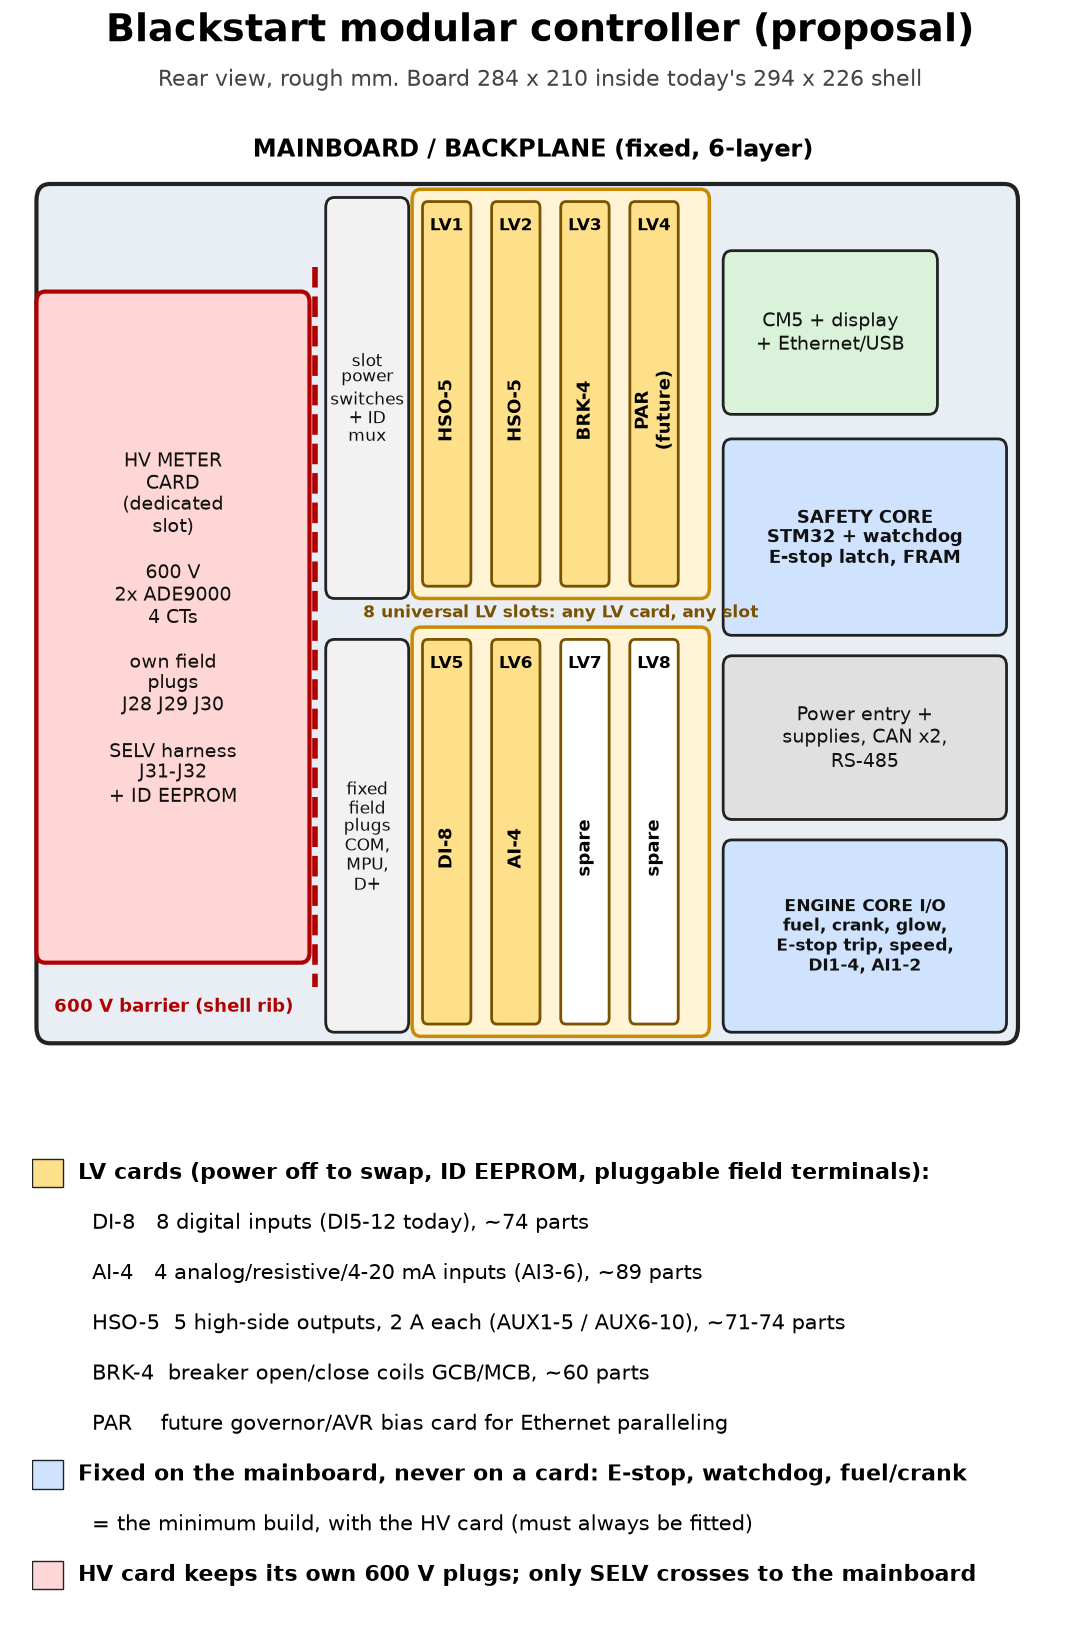
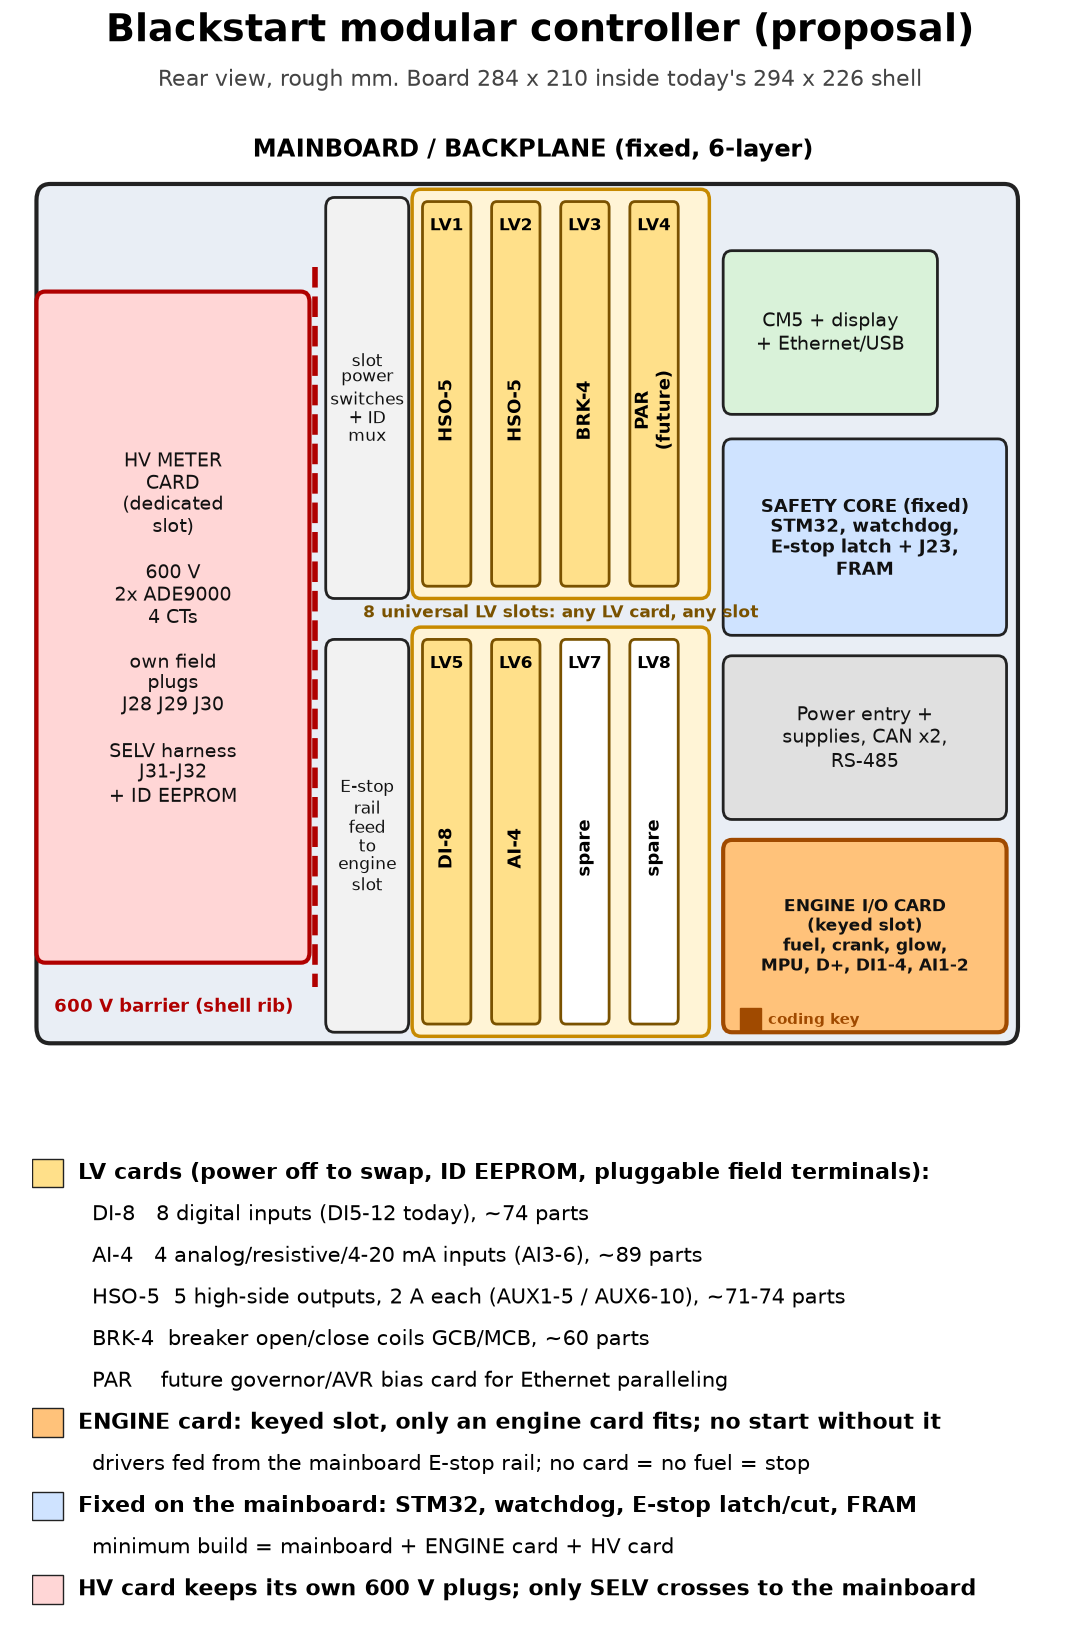
M-mod P2 chunk A: engine I/O card slot in MODULAR_ARCHITECTURE (§9: E-stop cut verified upstream/external, glow VS -> VBAT_ESTOP, parallel DIN contacts, AT24CS32/TPS48100 checks, I2C2 slot bus), card_layout.png keyed engine slot, cost delta +$326/+$120

diff --git a/docs/modular/tools/card_layout.py b/docs/modular/tools/card_layout.py
@@ -38,11 +38,12 @@ for i,(s,u) in enumerate(zip(slots_bot,use_bot)):
 ax.text(x0+2*pitch,89.5,'8 universal LV slots: any LV card, any slot',ha='center',va='center',fontsize=12.5,color='#7a5200',weight='bold')
 # fixed blocks
 box(ax,195,1,62,40,'#d9f2d9',txt='CM5 + display\n+ Ethernet/USB',fs=14)
-box(ax,195,47,82,48,'#cfe3ff',txt='SAFETY CORE\nSTM32 + watchdog\nE-stop latch, FRAM',fs=13,bold=True)
+box(ax,195,47,82,48,'#cfe3ff',txt='SAFETY CORE (fixed)\nSTM32, watchdog,\nE-stop latch + J23,\nFRAM',fs=13,bold=True)
 box(ax,195,100,82,40,'#e0e0e0',txt='Power entry +\nsupplies, CAN x2,\nRS-485',fs=14)
-box(ax,195,145,82,47,'#cfe3ff',txt='ENGINE CORE I/O\nfuel, crank, glow,\nE-stop trip, speed,\nDI1-4, AI1-2',fs=12.5,bold=True)
+box(ax,195,145,82,47,'#ffc27a',ec='#a04a00',lw=3,txt='ENGINE I/O CARD\n(keyed slot)\nfuel, crank, glow,\nMPU, D+, DI1-4, AI1-2',fs=12.5,bold=True)
+ax.add_patch(Rectangle((200,186),6,6,fc='#a04a00',ec='#a04a00')); ax.text(208,189,'coding key',fontsize=11,color='#a04a00',va='center',weight='bold')
 box(ax,80,-12,24,98,'#f2f2f2',txt='slot\npower\nswitches\n+ ID\nmux',fs=12)
-box(ax,80,96,24,96,'#f2f2f2',txt='fixed\nfield\nplugs\nCOM,\nMPU,\nD+',fs=12)
+box(ax,80,96,24,96,'#f2f2f2',txt='E-stop\nrail\nfeed\nto\nengine\nslot',fs=12)
 # bottom legend
 lx=fig.add_axes([0.03,0.015,0.94,0.29]); lx.axis('off'); lx.set_xlim(0,100); lx.set_ylim(0,100)
 L=[('#ffe08a','LV cards (power off to swap, ID EEPROM, pluggable field terminals):'),
@@ -51,14 +52,16 @@ L=[('#ffe08a','LV cards (power off to swap, ID EEPROM, pluggable field terminals
    (None,'  HSO-5  5 high-side outputs, 2 A each (AUX1-5 / AUX6-10), ~71-74 parts'),
    (None,'  BRK-4  breaker open/close coils GCB/MCB, ~60 parts'),
    (None,'  PAR    future governor/AVR bias card for Ethernet paralleling'),
-   ('#cfe3ff','Fixed on the mainboard, never on a card: E-stop, watchdog, fuel/crank'),
-   (None,'  = the minimum build, with the HV card (must always be fitted)'),
+   ('#ffc27a','ENGINE card: keyed slot, only an engine card fits; no start without it'),
+   (None,'  drivers fed from the mainboard E-stop rail; no card = no fuel = stop'),
+   ('#cfe3ff','Fixed on the mainboard: STM32, watchdog, E-stop latch/cut, FRAM'),
+   (None,'  minimum build = mainboard + ENGINE card + HV card'),
    ('#ffd6d6','HV card keeps its own 600 V plugs; only SELV crosses to the mainboard')]
 y=96
 for c,t in L:
     if c: lx.add_patch(Rectangle((0,y-4.5),3,6,fc=c,ec='#222'))
     lx.text(4.5 if c else 4.5,y-1.5,t,fontsize=15.5 if c else 15,va='center',weight='bold' if c else 'normal')
-    y-=10.5
+    y-=8.7
 out=os.path.join(MOD,'card_layout.png'); fig.savefig(out,dpi=100); print(out)
 
 # connector comparison sheet

diff --git a/docs/modular/tools/cost_delta.py b/docs/modular/tools/cost_delta.py
@@ -28,6 +28,14 @@ add('cards','TMUX1208PWR current-sense mux (C494728) on HSO-5 x2, BRK-4',3,0.571
 add('cards','TCA9555PWR on AI-4 (excitation/shunt enables) (C465732)',1,0.7314,0.517,'M-BOM')
 add('cards','DI-8 own bias switch block (copy of DI_BIAS, ~10 parts)',1,1.00,0.80,'E')
 add('cards','Card passives (~6 per card) + 1 extra field header KF2EDGRM-5.08-6P net',nc+1,0.41,0.34,'E')
+# Phase 2 (Nov 23 10:24 decision): dedicated keyed ENGINE I/O card slot (circuitry moved, not added)
+add('engine slot','DIN 41612 C96 female vertical on mainboard, engine slot (C5173363)',1,1.3035,1.0953,'M-LCSC')
+add('engine slot','DIN 41612 C96 male RA on the engine card (C5173361)',1,1.2659,1.061,'M-LCSC')
+add('engine slot','AT24CS32-STUM-T engine card ID EEPROM + 100n + 10k (C147891)',1,1.4297+0.02,1.1721+0.02,'M-LCSC')
+add('engine slot','2nd TCA9548APWR (0x71): 8 LV + engine + HV = 10 ID buses > 8 channels (C130026)',1,0.8659,0.732,'M-LCSC')
+add('engine slot','KF2EDGRM-5.08-6P extra field headers on the engine card (DI1-4/AI1-2, D+/GLOW/BIAS) (C441292)',2,0.3626,0.3626,'M-BOM')
+add('engine slot','Engine card PCB 4-layer ~100 x 80 mm (double-width) + PCBA fees + ~6 extended parts',1,8.0+13.74+18.42,1.6+1.374+1.842,'E (same basis as LV card lines)')
+add('engine slot','Engine bay guide with coding rib + faceplate + captive screw',1,4.00,2.50,'E')
 # boards and fees
 designs=4
 add('boards','LV card PCB, 4-layer ~100 x 36 mm, 5 pcs per design at qty 1 (per-unit share at qty 10)',designs,8.00,1.20,'E (SPLIT_SCOPE JLC 100x100 4L x5 ~ EUR 5.92)')
@@ -42,5 +50,5 @@ with open(os.path.join(H,'cost_delta.csv'),'w',newline='') as f:
         w.writerow([g,i,q,p1,p10,round(q*p1,2),round(q*p10,2),s]); t1+=q*p1; t10+=q*p10
     w.writerow(['TOTAL','delta vs one-board baseline (savings from removed shared mainboard parts NOT subtracted)','','','',round(t1,2),round(t10,2),'mix'])
 print(round(t1,2),round(t10,2))
-for g in ['backplane x8','backplane shared','cards','boards','mechanical']:
+for g in ['backplane x8','backplane shared','cards','engine slot','boards','mechanical']:
     print(g, round(sum(q*p1 for gg,i,q,p1,p10,s in rows if gg==g),2), round(sum(q*p10 for gg,i,q,p1,p10,s in rows if gg==g),2))

diff --git a/docs/MODULAR_ARCHITECTURE.md b/docs/MODULAR_ARCHITECTURE.md
@@ -1,7 +1,7 @@
-# Modular "card" architecture: Phase 1 proposal (docs only)
+# Modular "card" architecture: Phase 1 proposal + Phase 2 engine-card update
 
 Branch `m7-modular`, from the locked baseline tag `baseline-2026-11-23-locked` (5bac9fe). Written Mon Nov 23, 2026, ~10:15 AM HST.
-**No schematic, BOM, PCB or enclosure file has been changed.** This is a proposal for Ethan's review. Nothing has been ordered or pushed.
+**Phase 2 (§9, Nov 23 ~10:40 AM HST):** the engine I/O moves to its own keyed card slot; card schematics now live in `cards/`. The baseline schematics, BOM and PCB are still untouched. Nothing has been ordered or pushed.
 
 Ethan's asks (Nov 23, 10:00 and 10:01 AM HST):
 - Make the parts of the controller that fail into swappable "cards" (LV inputs, HV inputs, LV outputs, and so on).
@@ -28,11 +28,10 @@ Supporting files in `docs/modular/`:
 
 ## 0. Recommendation in one screen
 
-- **Mainboard/backplane, fixed.** It keeps everything that must never be removable, plus the minimum engine I/O:
-  - STM32 safety core, watchdog and latch, E-stop sense and trip, FRAM;
-  - fuel, crank and glow drivers;
-  - speed inputs (MPU, D+, COM), VBAT sense, **DI1-4 and AI1-2** (the engine-protection inputs);
+- **Mainboard/backplane, fixed.** It keeps only what must never be removable:
+  - STM32 safety core, watchdog and engine-stop latch, E-stop sense/latch and the E-stop feed (J23), FRAM;
   - power entry and supplies, CAN ×2, RS-485, CM5 + display + Ethernet/USB, front-panel keys.
+- **1 dedicated, keyed ENGINE slot (Phase 2, §9).** Fuel, crank and glow drivers, MPU speed, D+, COM_A/B, DI1-4 and AI1-2 with their protection are on a card. Only an engine card fits (coding key + ID EEPROM type check), and the engine will not start without it. Its drivers are fed only from the mainboard's E-stop rail, so a missing card means no fuel.
 - **8 universal LV slots.** Any LV card goes in any LV slot. Each card is identified by an ID EEPROM, and firmware configures itself from what it finds. Card types:
   - **DI-8:** 8 digital inputs.
   - **AI-4:** 4 analog, resistive or 4-20 mA inputs.
@@ -306,7 +305,76 @@ Build 2 (baseline-equivalent I/O: DI-8, AI-4, 2× HSO-5, BRK-4, HV) against the 
 
 ## 8. Open questions for Ethan
 1. Is **about +8 mm overall depth** OK (the card bays stick out 14 mm) so cards can be swapped from the rear without opening the box?
-2. Keep the **engine core fixed** (E-stop, fuel/crank/glow, speed, DI1-4, AI1-2 on the mainboard), or put those on cards too?
+2. ~~Keep the engine core fixed?~~ Decided Nov 23 10:24: engine I/O goes on a keyed card (§9). E-stop, watchdog and latch stay fixed.
 3. A **replaced card of the same type**: require a panel acknowledgment before the next start (my pick), or auto-accept? The same goes for a blank-calibration HV card.
 4. **8 LV slots** (5 used in a full build), or 6 to save about $14 per unit?
 5. **Power-off swap only** OK? True hot-swap would need staggered-contact connectors, and I haven't priced those.
+
+---
+
+## 9. Phase 2: dedicated keyed ENGINE I/O card (Nov 23, 10:24 AM HST decision)
+
+Why: Ethan asked whether fuel, crank, glow, speed and the core inputs are just as likely to fail or get shorted as the other I/O. They are: they face the same field wiring. So they go on a swappable card too, in a slot of their own.
+
+### 9.1 What is where
+| On the mainboard (fixed) | On the ENGINE card (`cards/engine/`, 156 parts [M]) |
+|---|---|
+| STM32, watchdog + WD_OK latch (U84), FUEL/CRANK/GLOW_EN AND gates (U38-U40) | Fuel + crank TPS48100 drivers, FETs, shunts, INA281 current sense |
+| E-stop input J23 (VBAT_ESTOP_IN), reverse-block FETs Q70/Q71, E-stop sense/latch/trip | Glow driver TPS1HTC30 + its protection |
+| FRAM, supplies, CM5/display/comms, front panel | MPU speed front end, D+ excitation (LM317) + sense, COM_A/B |
+| J23 also carries FUEL_OUT/CRANK_OUT to the engine harness | DI1-4 and AI1-2 front ends, DI_BIAS_A input clamp |
+| | Field headers: COM/MPU (moved J18), new DI1-4/AI1-2, new D+/GLOW/BIAS (same KF2EDGRM-5.08-6P part, C441292) |
+| | ID EEPROM AT24CS32 (type 0x0001 = engine) |
+
+### 9.2 E-stop cut location (checked against the baseline netlist) [M]
+- **The cut is external and upstream.** J23.1-2 (VBAT_ESTOP_IN) comes from the external E-stop / power box F2 10 A. Q70/Q71 SQD40P10-40L are reverse-block FETs that make VBAT_ESTOP. VBAT_ESTOP feeds the fuel and crank TPS48100s (U43/U45 VS/CS+) through 20 mΩ shunts. So no driver sits upstream of the cut, and the boundary works as planned: **VBAT_ESTOP goes to the card, FUEL_OUT/CRANK_OUT come back, and J23 stays on the mainboard.**
+- **Watchdog gating is logic-level only.** FUEL/CRANK/GLOW_EN = *_EN_MCU AND WD_OK, through U38-U40 on the mainboard. A watchdog trip turns the drivers off, but it does not remove the rail. A shorted driver FET keeps fuel on until the external E-stop opens, **the same as the baseline**. This is a design issue (§9.7, item 1).
+- **Glow was on VBAT_P, not VBAT_ESTOP.** The E-stop did not cut glow. On the card, glow VS is moved to VBAT_ESTOP, as decided. This is the only intentional net change (`cards/engine/net_accounting.csv`, override listed in `cards/tools/card_engine.py`).
+
+### 9.3 Fail-safe rules met
+- The card's driver supply comes only from the mainboard VBAT_ESTOP over the slot. With no card, nothing can drive FUEL_OUT: fuel is energize-to-run, so the engine stops.
+- EN signals arrive already gated by WD_OK. The card has its own pull-downs on them (baseline parts, moved).
+- ENG_PRESENT_N is tied to GND on the card, and the ID EEPROM type must be 0x0001. If either is missing, the firmware blocks start and shows "ENGINE CARD MISSING" (FW_REQ_CARDS).
+- Keying: the engine card edge has a coding notch at a different position from LV cards, with a matching rib in the engine bay. Two-way coding means an LV card can't go in the engine slot and the engine card can't go in an LV slot.
+
+### 9.4 Contacts: parallel DIN 41612 contacts, no extra power connector
+2 A per contact [DS], derated 50 % to 1 A:
+
+| Net | Contacts | Rated / derated | Needs |
+|---|---|---|---|
+| VBAT_ESTOP | 12 (a/b/c 1-4) | 24 A / 12 A | ≥ 10 A F2 fuse ✓ |
+| FUEL_OUT | 6 (a/b/c 5-6) | 12 A / 6 A | ≥ 6.14 A max short-circuit trip (TPS48100, 40.2k / 20 mΩ) ✓ |
+| CRANK_OUT | 6 (a/b/c 7-8) | 12 A / 6 A | same ✓ |
+| VBAT_P (MPU/D+ bias only) | 2 | 4 A / 2 A | < 0.2 A [E] ✓ |
+
+The full pinout is in `cards/engine/engine_slot_pinout.csv`. Signals use rows a and c, and every b contact from 9 to 32 is GND (guard). **Budget flag:** fuel 2.8 A + crank 2.8 A + glow ~2 A = 7.6 A, above the 6 A that the baseline allowed for the VBAT_ESTOP node. It is still under the 10 A F2 fuse and the 12 A contact rating, but the VBAT_ESTOP copper and the Q70/Q71 FETs need re-checking for glow (open question 9.8-2).
+
+### 9.5 Datasheet checks done this phase
+- **AT24CS32** (LCSC C147891 PDF) [DS]:
+  - SOT-23-5 pinout: 1 SCL, 2 GND, 3 SDA, 4 VCC, 5 WP.
+  - EEPROM at 0x50. In SOT-23 the A2..A0 bits are fixed at 0, so every card reads as 0x50 and each card needs its own mux channel.
+  - 128-bit factory serial, read-only, at 0x58.
+  - WP: 10k pull-up to 3V3 on the card. A slot ID_WP pin lets firmware write.
+- **Slot ID mux count:** 8 LV + engine + HV = 10 ID buses, more than the TCA9548A's 8 channels. So a second TCA9548A (0x71) is needed, priced in.
+- **TPS48100 LV-slot limit** (TI TPS4810-Q1 Eq. 5: RISCP = (ISC·RSNS − 19 mV)/2 µA) [DS]:
+  - Baseline check: 40.2k with 20 mΩ gives 4.97 A ✓.
+  - With 10 mΩ and 40.2k it would be 9.9 A typ, too high.
+  - **Use 10 mΩ + 30.1k: 7.9 A typ, ~6.2-9.8 A min/max [E, tolerance scaled].** The minimum is above the 6 A slot budget.
+- **STM32 pins:** all 100 pins of U7 are used. The slot ID bus goes on **I2C2 = PB10/PB11 (pins 46/47, AF4; confirm in DS12110)**. Those pins carry DI8/DI9 today and are freed when the DI-8 card serializes DI5-12 behind its SPI expander. This also keeps card EEPROMs (0x50) off I2C1, where the FRAM (0x50) and ADS1115s (0x48/0x49) already sit.
+
+### 9.6 Schematic rule (Ethan, 10:26): one flat sheet per card
+Each `cards/<name>/` project is one A3 sheet with no sub-sheets, using net labels and rendered to PNG/PDF. The engine card fits (156 parts, ERC 0 errors / 0 warnings): `cards/engine/engine.png`. **The HV meter card does not fit legibly on one sheet:** it has about 215 parts plus 600 V creepage notes, and is two sheets today (root + `ac_metering`). It stays a 2-sheet project, with the EEPROM added on its SELV side, unless Ethan wants it on A2 or split into two cards.
+
+### 9.7 Design issues
+1. **No rail-level watchdog cut** (baseline issue, carried over). Proposal: a mainboard P-FET or ideal-diode controller in series with VBAT_ESTOP, gated by WD_OK AND ESTOP_OK. Then a shorted driver FET or a stuck card is cut by the watchdog as well, not only by the external E-stop. That is about 3-5 parts [E], and the parts aren't picked yet.
+2. Glow now draws on VBAT_ESTOP (see §9.4 budget).
+3. DI_BIAS_A is shared: DI1-4 on the engine card use it, and DI5-6 (DI-8 card) use bank A too. It crosses the slot on one contact (PTC-limited).
+4. Mainboard terminals J17.1-2, J18 (whole), J19.1-4, J21.3 and J24.1 become NC when the engine card fits. J18 moves to the card, and the mainboard layout loses those terminal positions.
+
+### 9.8 Updated cost delta (`modular/cost_delta.csv`)
+The total is now **+$326 at qty 1 and +$120 per unit at qty 10** (it was +$276 / +$108). The engine-slot lines add $49.77 / $12.12: DIN pair, EEPROM, second I2C mux, 2 extra field headers, engine card PCB + fees, bay guide. Savings from parts removed from the mainboard are not subtracted.
+
+### 9.9 Open questions
+1. Add the rail-level watchdog cut (§9.7-1)? My pick: yes.
+2. Glow on VBAT_ESTOP: OK to re-rate the VBAT_ESTOP path for 7.6 A?
+3. HV meter: keep it as 2 sheets (my pick), or go to A2?
